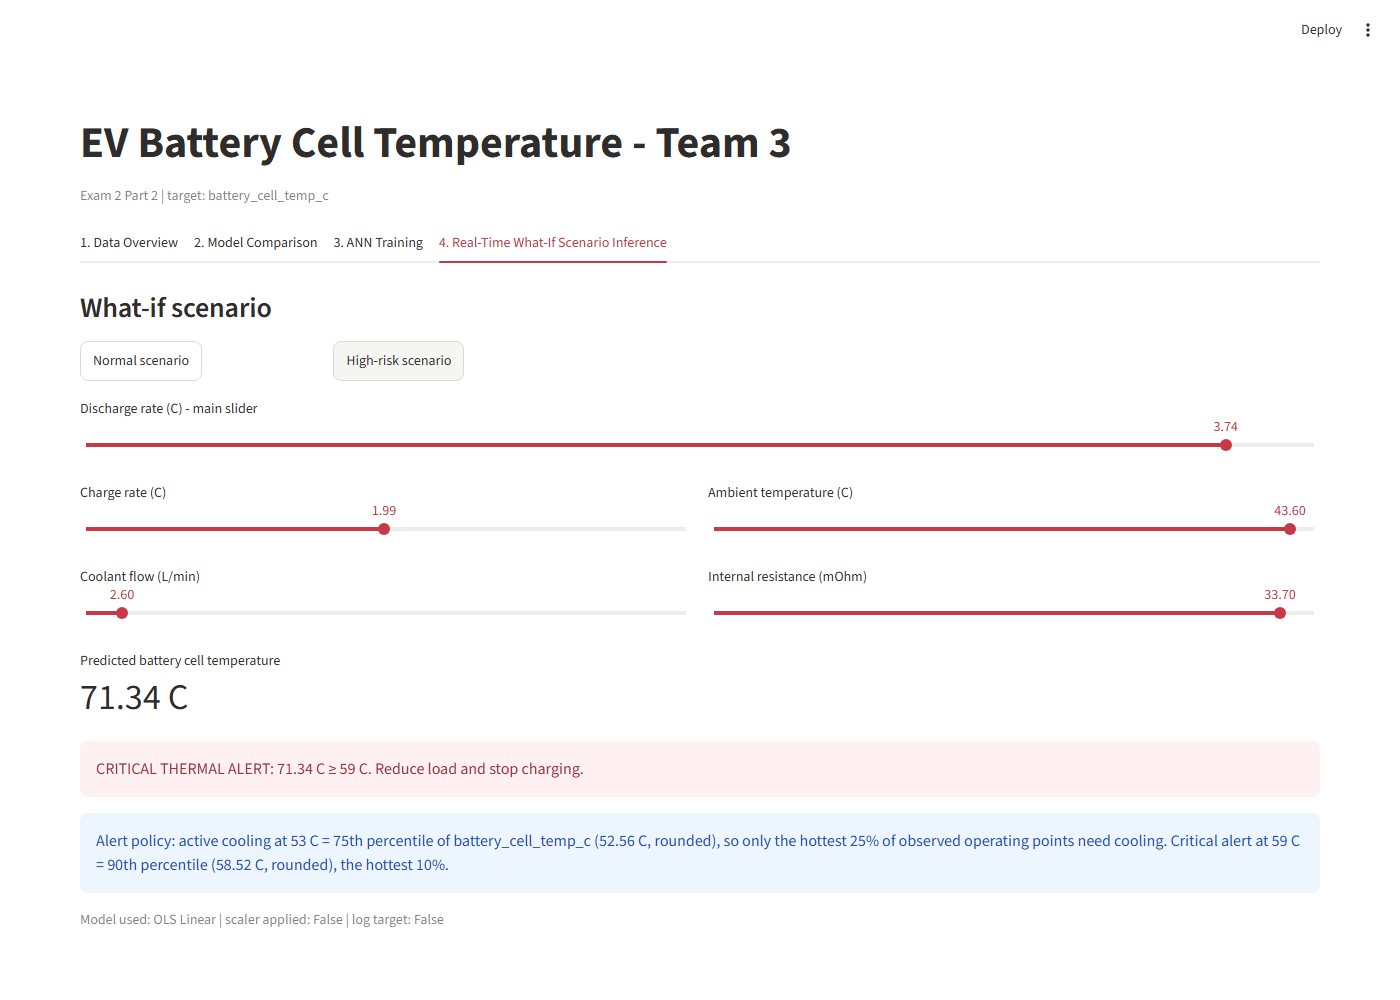
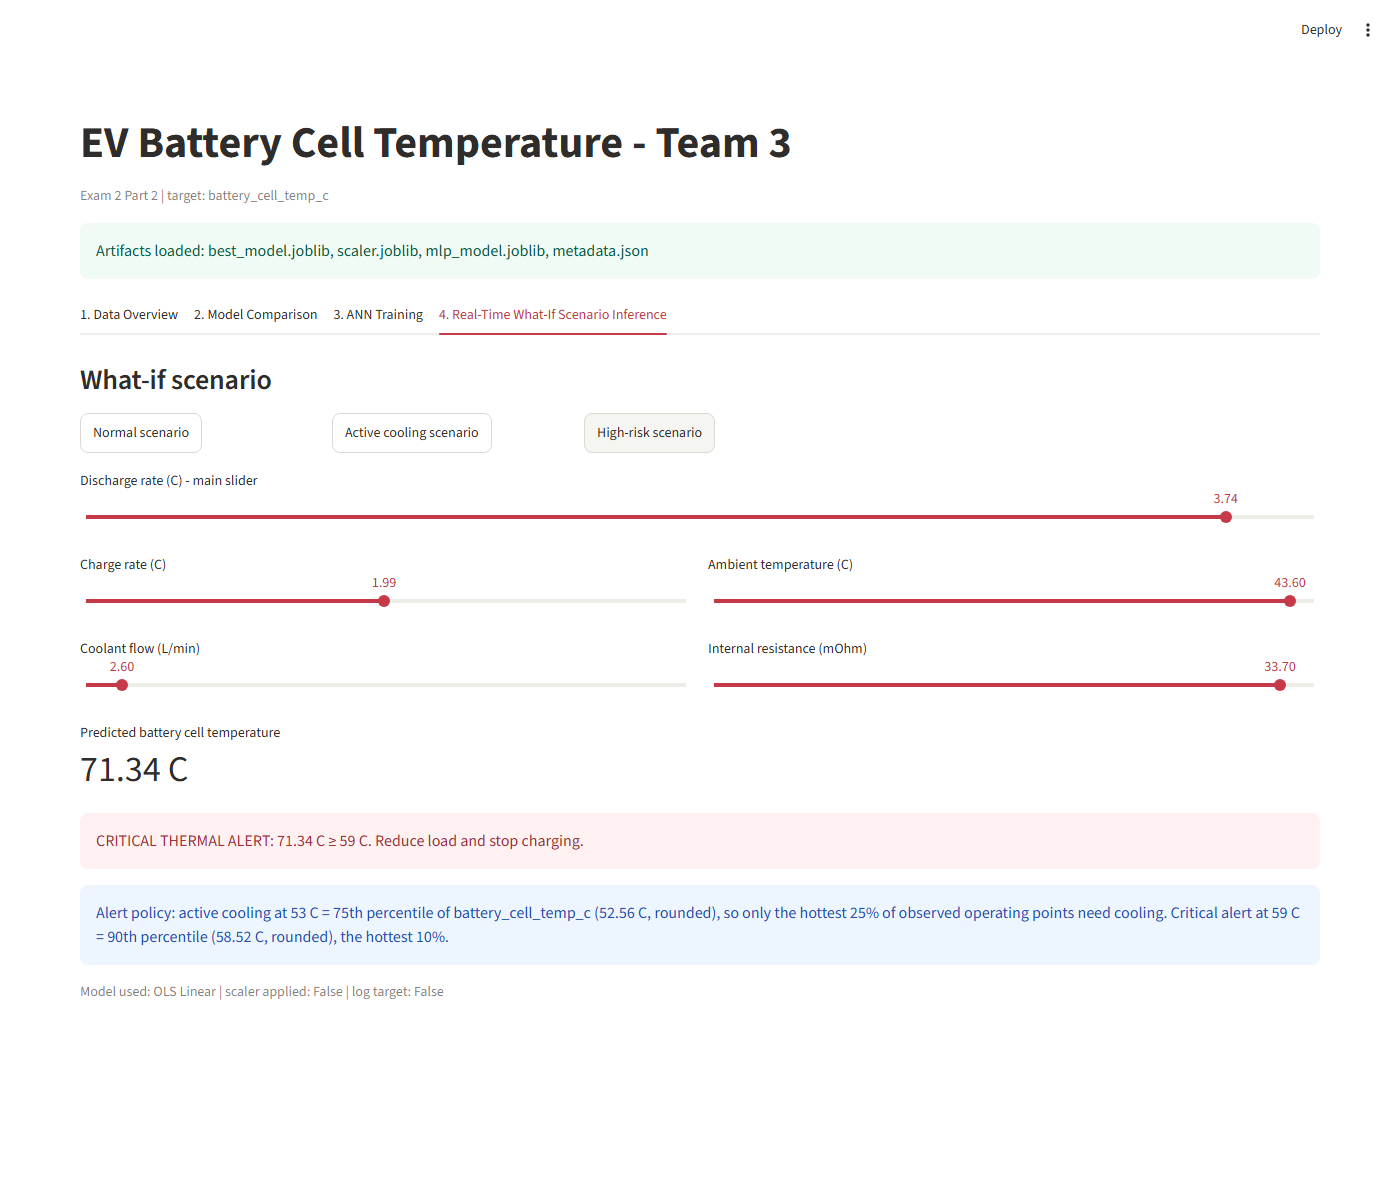
exam2: verified full-page screenshots incl. active cooling scenario

diff --git a/exam2/scripts/take_screenshots.py b/exam2/scripts/take_screenshots.py
@@ -1,4 +1,5 @@
-"""Headless Playwright screenshots of the 4 Streamlit tabs + Tab 4 presets."""
+"""Headless Playwright screenshots of the 4 Streamlit tabs + 3 verified Tab 4 scenarios."""
+import re
 import sys
 from pathlib import Path
 
@@ -9,23 +10,75 @@ OUT = Path(__file__).resolve().parents[1] / "reports" / "screenshots"
 OUT.mkdir(parents=True, exist_ok=True)
 TABS = ["1. Data Overview", "2. Model Comparison", "3. ANN Training",
         "4. Real-Time What-If Scenario Inference"]
+# (button, file, expected prediction, alert text, Streamlit alert test id)
+SCENARIOS = [("Normal scenario", "tab4_normal.png", 25.72, "Normal operation", "stAlertContentSuccess"),
+             ("Active cooling scenario", "tab4_active_cooling.png", 56.65, "ACTIVE COOLING TRIGGERED",
+              "stAlertContentWarning"),
+             ("High-risk scenario", "tab4_high_risk.png", 71.34, "CRITICAL THERMAL ALERT", "stAlertContentError")]
+
+
+def wait_idle(page):
+    """Wait until Streamlit finished rerunning (no 'Running' status widget), then 2 s more."""
+    page.wait_for_timeout(500)
+    page.wait_for_function(
+        """() => { const w = document.querySelector('[data-testid="stStatusWidget"]');
+                   return !w || !/Running/i.test(w.innerText); }""", timeout=60000)
+    page.wait_for_function(
+        """() => !document.querySelector('[data-stale="true"]')""", timeout=60000)
+    page.wait_for_timeout(2000)
+
+
+def full_shot(page, path):
+    """Streamlit scrolls inside its own container, so grow the viewport to the content height first."""
+    h = page.evaluate("""() => { const m = document.querySelector('[data-testid="stMain"]')
+                                   || document.querySelector('[data-testid="stAppViewContainer"]');
+                                 const c = m ? m.scrollHeight : 0;
+                                 return Math.max(c, document.body.scrollHeight, 1000); }""")
+    page.set_viewport_size({"width": 1400, "height": int(h) + 40})
+    page.wait_for_timeout(2500)
+    page.screenshot(path=str(path), full_page=True)
+    page.set_viewport_size({"width": 1400, "height": 1000})
+    page.wait_for_timeout(500)
+
 
 with sync_playwright() as p:
     browser = p.chromium.launch(headless=True)
     page = browser.new_page(viewport={"width": 1400, "height": 1000})
     page.goto(URL, wait_until="networkidle")
     page.wait_for_selector("[role=tab]", timeout=60000)
-    page.wait_for_timeout(2500)
+    wait_idle(page)
     for i, name in enumerate(TABS, 1):
         page.get_by_role("tab", name=name).click()
-        page.wait_for_timeout(2500)
-        page.screenshot(path=str(OUT / f"tab{i}.png"), full_page=True)
-        print("saved", f"tab{i}.png")
-    for label, fname, alert in [("Normal scenario", "tab4_normal.png", "Normal operation"),
-                                ("High-risk scenario", "tab4_high_risk.png", "CRITICAL")]:
-        page.get_by_role("button", name=label).click()
-        page.get_by_text(alert, exact=False).first.wait_for(timeout=20000)
-        page.wait_for_timeout(2000)
-        page.screenshot(path=str(OUT / fname), full_page=True)
-        print("saved", fname)
+        wait_idle(page)
+        # scroll through the page so lazy charts render, then back to top
+        page.evaluate("window.scrollTo(0, document.body.scrollHeight)")
+        page.wait_for_timeout(1500)
+        page.evaluate("window.scrollTo(0, 0)")
+        if i < 4:
+            full_shot(page, OUT / f"tab{i}.png")
+            print("saved", f"tab{i}.png")
+
+    for label, fname, expected, alert_text, testid in SCENARIOS:
+        for attempt in range(1, 4):
+            page.get_by_role("button", name=label).click()
+            wait_idle(page)
+            metric_box = page.locator('[data-testid="stMetric"]').filter(
+                has_text="Predicted battery cell temperature").first
+            metric = metric_box.locator('[data-testid="stMetricValue"]').inner_text()
+            value = float(re.search(r"[-\d.]+", metric).group())
+            alert = page.locator(f'[data-testid="{testid}"]').filter(has_text=alert_text)
+            visible = alert.count() > 0 and alert.first.is_visible()
+            # effective opacity of the alert and the metric (stale Streamlit elements are greyed out)
+            eff = """el => { let o = 1; for (let e = el; e; e = e.parentElement)
+                               o *= parseFloat(getComputedStyle(e).opacity); return o; }"""
+            opacity = min(alert.first.evaluate(eff) if visible else 0, metric_box.evaluate(eff))
+            ok = abs(value - expected) < 0.01 and visible and opacity > 0.9
+            print(f"{label}: shown {value:.2f} C (expected {expected:.2f}), alert visible={visible}, "
+                  f"min opacity={opacity:.2f} -> {'OK' if ok else 'RETRY'} (attempt {attempt})")
+            if ok:
+                full_shot(page, OUT / fname)
+                print("saved", fname)
+                break
+        else:
+            sys.exit(f"Could not get a clean screenshot for {label}")
     browser.close()
